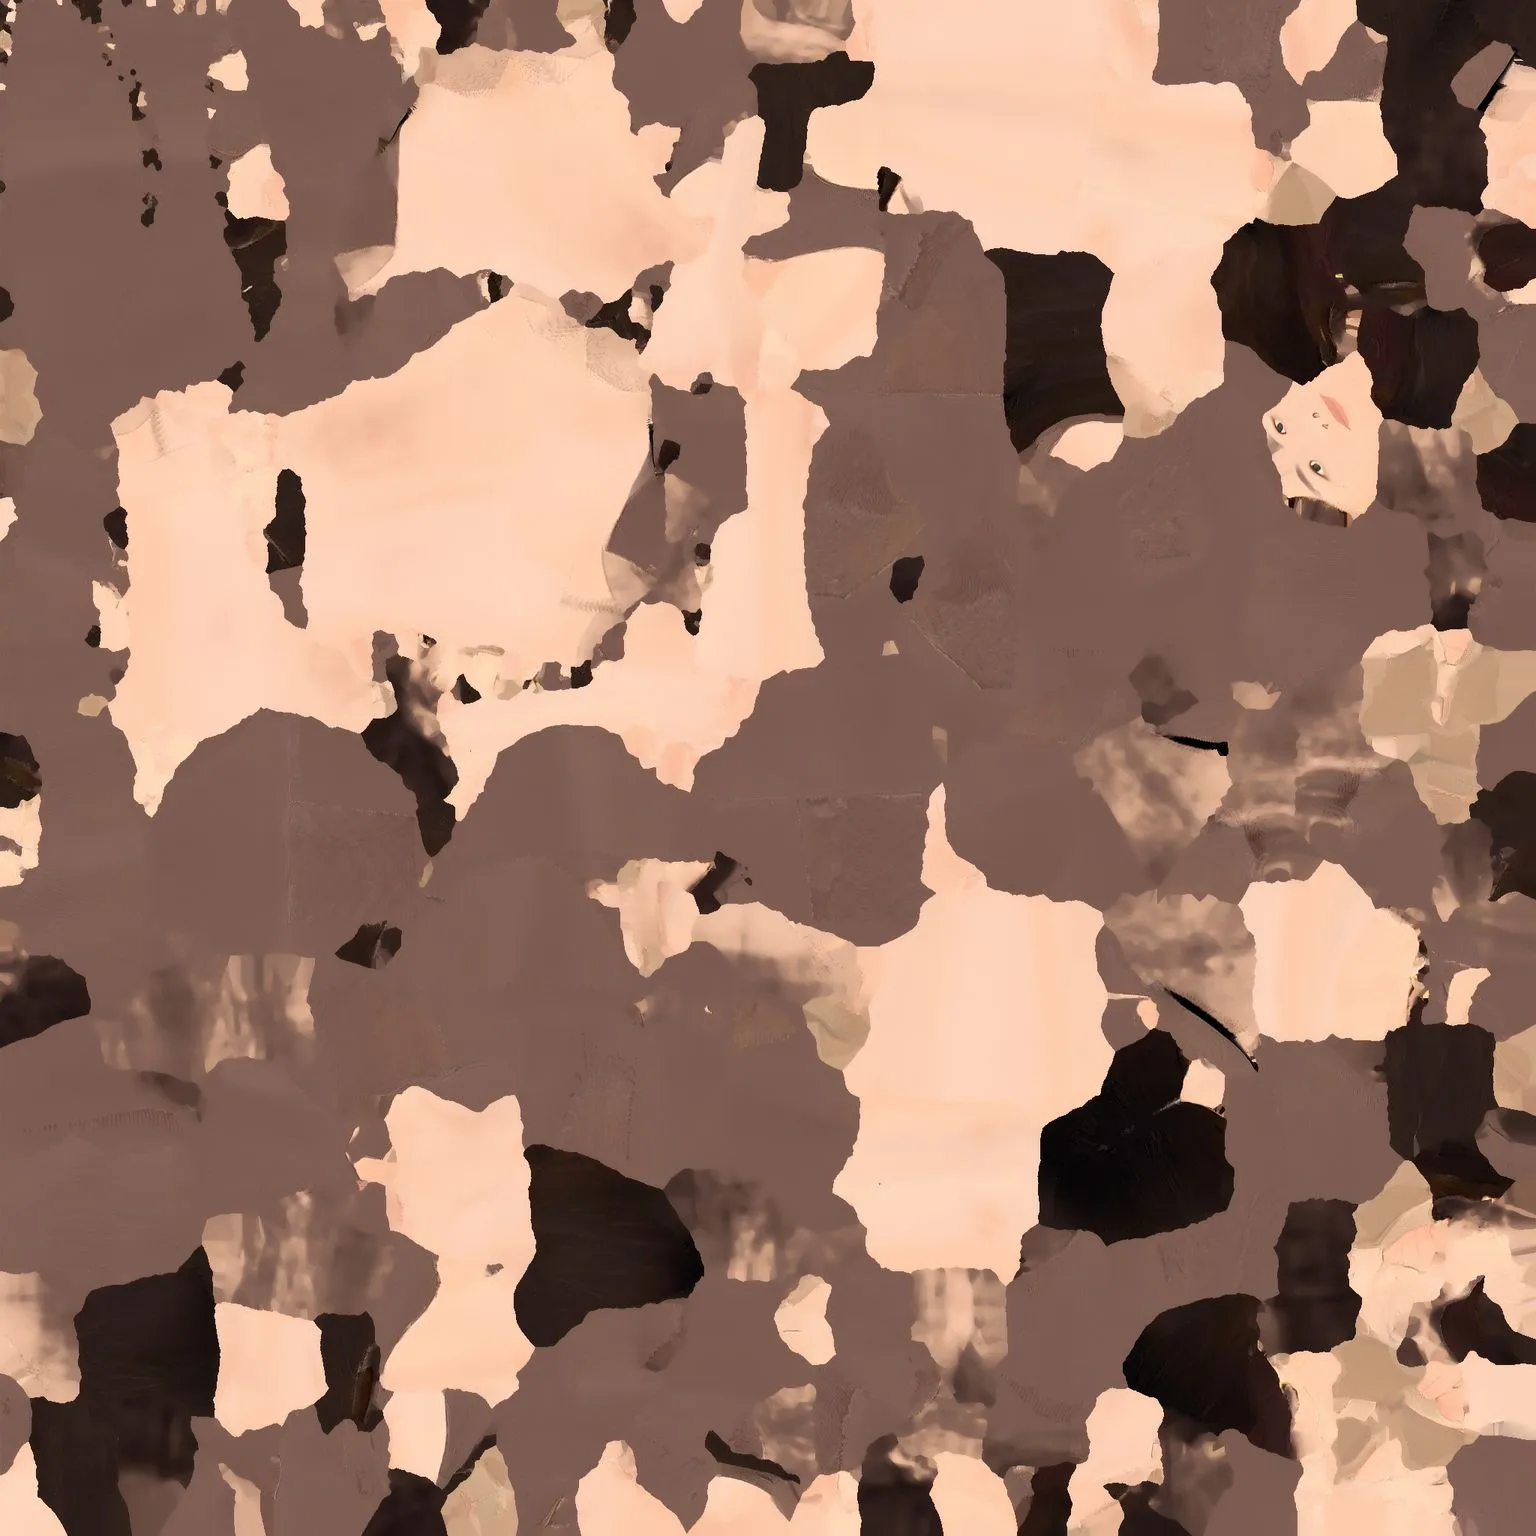
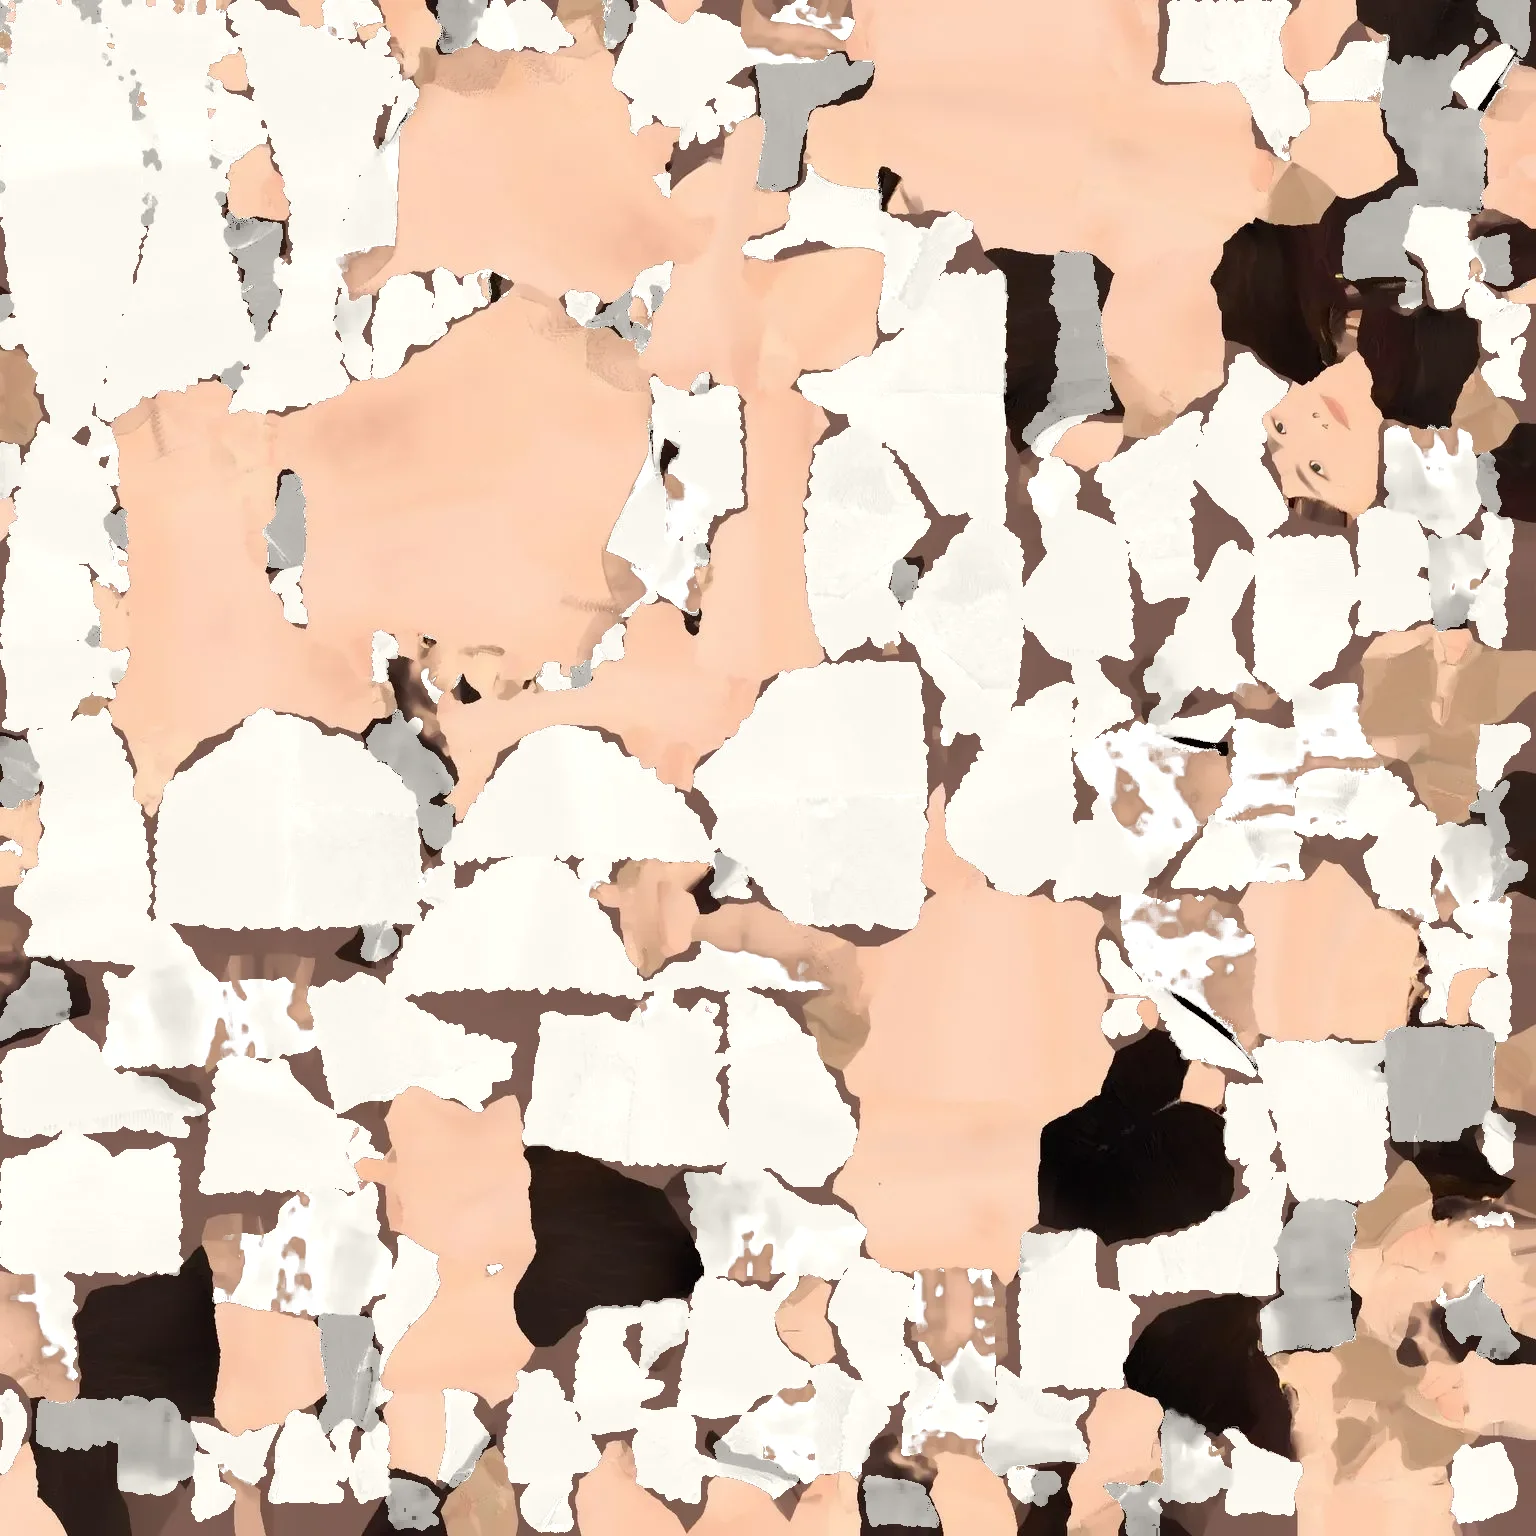
Turn the bride's brown dress into a white wedding gown
- Recolour the dress in her texture to ivory satin: texels are picked by the
  bones their triangles are skinned to (torso and thighs, never head/hair)
  and by the dress's colour, keeping the original folds and shading
- Add a floor-length satin skirt below her dress's scalloped hem; it hangs
  from her hips, is pushed out by her legs and flares when she spins
- Credits note the changes (the model is CC BY 4.0)

Claude-Session: https://claude.ai/code/session_018UebQLEDEgjX5y8KiAsr8e

diff --git a/js/model.js b/js/model.js
@@ -17,6 +17,7 @@ export const MODELS = {
   bride: {
     url: 'models/bride.json',
     height: 1.68,
+    gown: { hem: 0.41 }, // her dress ends at 41% of her height; a floor-length satin skirt continues below it
     credit: 'Bride: “Casual Woman in Brown Dress Rigged Idle” by florah (sketchfab.com/florah), CC BY 4.0'
   }
 };
@@ -140,6 +141,7 @@ export class ModelDancer {
       this.links.push({ bone, drv, C, depth: depthOf(bone) });
     }
     this.links.sort((a, b) => a.depth - b.depth);
+    if (MODELS[kind].gown) this._buildGown(MODELS[kind].gown);
     this.setLabel(name, color);
     this.setPose(P());
   }
@@ -166,6 +168,107 @@ export class ModelDancer {
   }
 
   setHighlight() {}
+
+  // ----- floor-length overskirt: rings hang from just above her dress hem, pushed out by her legs -----
+  _buildGown({ hem }) {
+    const N = 22;
+    const M = 56;
+    const geo = new THREE.BufferGeometry();
+    geo.setAttribute('position', new THREE.BufferAttribute(new Float32Array(N * M * 3), 3));
+    const idx = [];
+    for (let i = 0; i < N - 1; i++)
+      for (let j = 0; j < M; j++) {
+        const a = i * M + j, b = i * M + ((j + 1) % M), c = (i + 1) * M + j, d = (i + 1) * M + ((j + 1) % M);
+        idx.push(a, b, c, b, d, c);
+      }
+    geo.setIndex(idx);
+    const mat = new THREE.MeshPhysicalMaterial({ color: '#f6f1e8', roughness: 0.5, sheen: 1, sheenRoughness: 0.35, sheenColor: new THREE.Color('#ffffff'), side: THREE.DoubleSide });
+    const mesh = new THREE.Mesh(geo, mat);
+    mesh.castShadow = true;
+    mesh.receiveShadow = true;
+    mesh.frustumCulled = false;
+    this.root.add(mesh);
+    const hipsY = this._rel(this.bones.pelvis).y;
+    const top = hem * MODELS[this.kind].height + 0.06; // tuck under the dress
+    this.gown = { mesh, geo, N, M, drop: hipsY - top, r: new Float32Array(M), prev: new Float32Array(M), hem: null, flare: 0, lastRot: 0, lastT: 0 };
+    this.restHipsQ = this._relQ(this.bones.pelvis, new THREE.Quaternion());
+  }
+
+  _updateGown() {
+    const G = this.gown;
+    const B = this.bones;
+    const now = performance.now() / 1000;
+    const dt = G.lastT ? Math.min(0.1, Math.max(0.001, now - G.lastT)) : 1 / 60;
+    G.lastT = now;
+    const rot = this.root.rotation.y;
+    const omega = G.hem ? Math.min(20, Math.abs(rot - G.lastRot) / dt) : 0;
+    G.lastRot = rot;
+    G.flare += (Math.min(0.32, omega * 0.03) - G.flare) * (1 - Math.exp(-dt * 4));
+
+    // the top ring hangs from the hips (follows their tilt); lower rings fall straight down
+    const hips = this._rel(B.pelvis);
+    const hq = this._relQ(B.pelvis, new THREE.Quaternion()).multiply(_q.copy(this.restHipsQ).invert());
+    const down = new THREE.Vector3(0, -1, 0).applyQuaternion(hq);
+    const topC = hips.clone().addScaledVector(down, G.drop);
+    const samples = [];
+    for (const side of ['L', 'R']) {
+      const pts = [B['hip' + side], B['knee' + side], B['ankle' + side], B['toe' + side]].filter(Boolean).map((b) => this._rel(b));
+      for (let k = 0; k < pts.length - 1; k++) for (let t = 0; t < 1; t += 0.2) samples.push(pts[k].clone().lerp(pts[k + 1], t));
+      samples.push(pts[pts.length - 1]);
+    }
+    const ank = this._rel(B.ankleL).add(this._rel(B.ankleR)).multiplyScalar(0.5);
+    const target = topC.clone().lerp(ank, 0.55);
+    if (!G.hem) G.hem = target.clone();
+    else G.hem.lerp(target, 1 - Math.exp(-dt * 9));
+    const length = MODELS[this.kind].gown.hem * MODELS[this.kind].height + 0.06;
+    const hemY = Math.max(0.015 + G.flare * 0.35, topC.y - length + G.flare * 0.2);
+    const { N, M, r, prev } = G;
+    const pos = G.geo.attributes.position.array;
+    for (let i = 0; i < N; i++) {
+      const s = i / (N - 1);
+      const y = topC.y + (hemY - topC.y) * s;
+      const cx = topC.x + (G.hem.x - topC.x) * s;
+      const cz = topC.z + (G.hem.z - topC.z) * s;
+      const flare = 1 + G.flare * 2.2 * Math.pow(s, 1.4);
+      for (let j = 0; j < M; j++) {
+        const th = (2 * Math.PI * j) / M;
+        const dx = Math.cos(th);
+        const dz = Math.sin(th);
+        let rr = (0.15 + 0.17 * Math.pow(s, 1.1)) * (dz > 0 ? 0.92 : 0.96) * flare;
+        for (const q of samples) {
+          if (Math.abs(q.y - y) > 0.08) continue;
+          const ox = q.x - cx;
+          const oz = q.z - cz;
+          const along = ox * dx + oz * dz;
+          const perp = Math.abs(ox * dz - oz * dx);
+          if (along > 0 && perp < 0.12) {
+            const need = Math.min(0.5, along + 0.075);
+            if (need > rr) rr += (need - rr) * (1 - perp / 0.12);
+          }
+        }
+        if (i > 0) rr = Math.max(rr, rr + (prev[j] - rr) * 0.85);
+        r[j] = rr;
+      }
+      for (let j = 0; j < M; j++) prev[j] = (r[(j + M - 1) % M] + 2 * r[j] + r[(j + 1) % M]) / 4;
+      for (let j = 0; j < M; j++) {
+        const th = (2 * Math.PI * j) / M;
+        let px = cx + prev[j] * Math.cos(th);
+        let py = y;
+        let pz = cz + prev[j] * Math.sin(th);
+        if (i < 4) {
+          // blend the first rings from the hips' frame so the waist of the skirt tilts with her
+          const w = i / 4;
+          _v.set(prev[j] * Math.cos(th), 0, prev[j] * Math.sin(th)).applyQuaternion(hq).add(topC).addScaledVector(down, (topC.y - y) / Math.max(0.2, -down.y));
+          px = _v.x + (px - _v.x) * w;
+          py = _v.y + (py - _v.y) * w;
+          pz = _v.z + (pz - _v.z) * w;
+        }
+        pos.set([px, Math.max(0.012, py), pz], (i * M + j) * 3);
+      }
+    }
+    G.geo.attributes.position.needsUpdate = true;
+    G.geo.computeVertexNormals();
+  }
 
   setPose(p) {
     const d = this.driver;
@@ -202,10 +305,15 @@ export class ModelDancer {
       this.model.position.y = this.baseY + (-min + (p.root.lift || 0) * this.k) * (1 - air);
       this.root.updateMatrixWorld(true);
     }
+    if (this.gown) this._updateGown();
   }
 
   dispose() {
     if (this.label) this.label.material.map.dispose();
+    if (this.gown) {
+      this.gown.geo.dispose();
+      this.gown.mesh.material.dispose();
+    }
     // geometry and textures are shared with the cached glTF, so they stay loaded for the next clone
   }
 }

diff --git a/index.html b/index.html
@@ -230,7 +230,7 @@
 
     <footer class="footer">
       StepStudio 3D · Dance safely — warm up, clear the floor, and practise dips on a soft surface first.
-      <br /><small class="credits">3D characters — Groom: “Man dressed in suit”, made with <a href="https://www.makehumancommunity.org/" target="_blank" rel="noopener">MakeHuman</a> (CC0). Bride: “<a href="https://sketchfab.com/3d-models/casual-woman-in-brown-dress-rigged-idle-b38456c89bf94323aa3c079f27e435ce" target="_blank" rel="noopener">Casual Woman in Brown Dress Rigged Idle</a>” by <a href="https://sketchfab.com/florah" target="_blank" rel="noopener">florah</a>, <a href="https://creativecommons.org/licenses/by/4.0/" target="_blank" rel="noopener">CC BY 4.0</a> (optimised for the web).</small>
+      <br /><small class="credits">3D characters — Groom: “Man dressed in suit”, made with <a href="https://www.makehumancommunity.org/" target="_blank" rel="noopener">MakeHuman</a> (CC0). Bride: “<a href="https://sketchfab.com/3d-models/casual-woman-in-brown-dress-rigged-idle-b38456c89bf94323aa3c079f27e435ce" target="_blank" rel="noopener">Casual Woman in Brown Dress Rigged Idle</a>” by <a href="https://sketchfab.com/florah" target="_blank" rel="noopener">florah</a>, <a href="https://creativecommons.org/licenses/by/4.0/" target="_blank" rel="noopener">CC BY 4.0</a> (optimised for the web; dress recoloured white and lengthened into a gown).</small>
     </footer>
 
     <dialog id="movePicker" class="move-picker">

diff --git a/README.md b/README.md
@@ -70,7 +70,7 @@ Every move provides `lead` and `follow` tracks plus a `level` (1–5). Solo mate
 The **Real** look uses two rigged models from `models/` (the Stylized and Mannequin looks are built in code):
 
 - **Groom**: “Man dressed in suit”, made with [MakeHuman](https://www.makehumancommunity.org/) (CC0). Converted from Collada to glTF.
-- **Bride**: “[Casual Woman in Brown Dress Rigged Idle](https://sketchfab.com/3d-models/casual-woman-in-brown-dress-rigged-idle-b38456c89bf94323aa3c079f27e435ce)” by [florah](https://sketchfab.com/florah), licensed [CC BY 4.0](https://creativecommons.org/licenses/by/4.0/). Optimised for the web (simplified mesh, WebP textures, quantised).
+- **Bride**: “[Casual Woman in Brown Dress Rigged Idle](https://sketchfab.com/3d-models/casual-woman-in-brown-dress-rigged-idle-b38456c89bf94323aa3c079f27e435ce)” by [florah](https://sketchfab.com/florah), licensed [CC BY 4.0](https://creativecommons.org/licenses/by/4.0/). Optimised for the web (simplified mesh, WebP textures, quantised); the brown dress is recoloured ivory in the texture and a floor-length satin skirt is added in code (`js/model.js`).
 
 Models are stored as glTF JSON (`.json`, buffers embedded) with `.webp` textures so they can be served from any static host. Any humanoid glTF with a Mixamo or MakeHuman skeleton can be swapped in: add it to `MODELS` in `js/model.js` (and its bone names to `BONES` if they differ).
 
